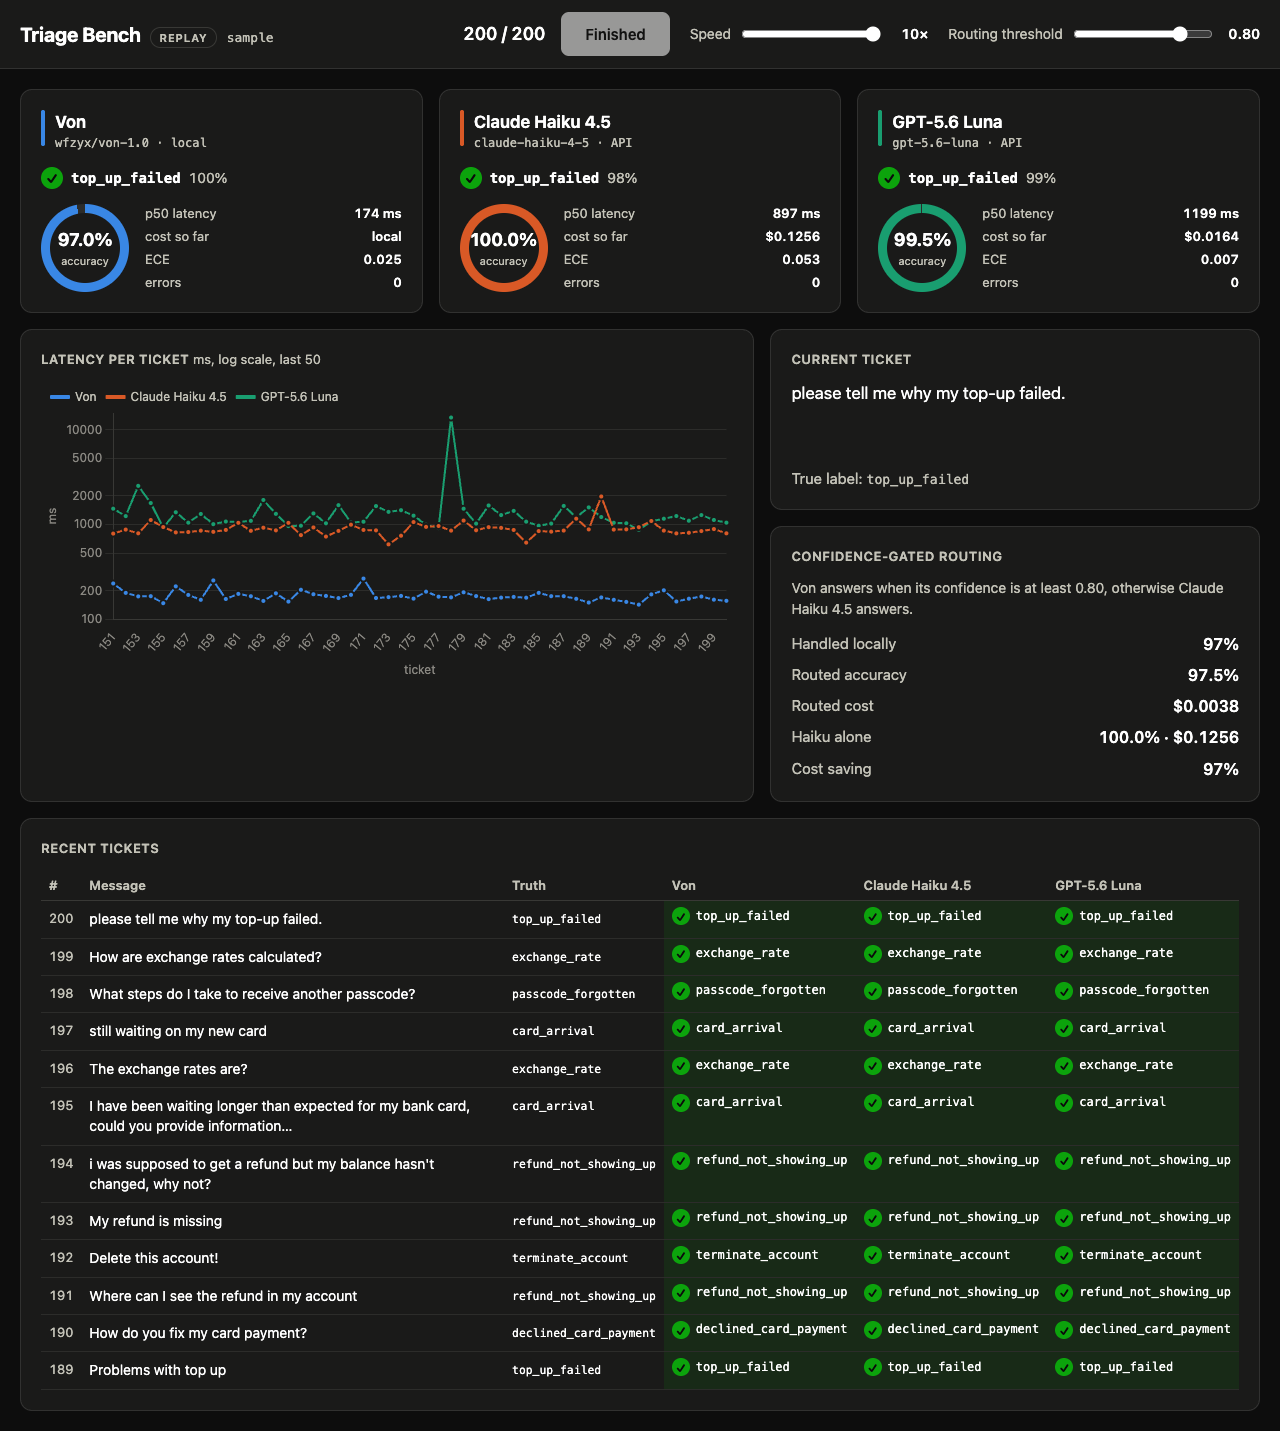
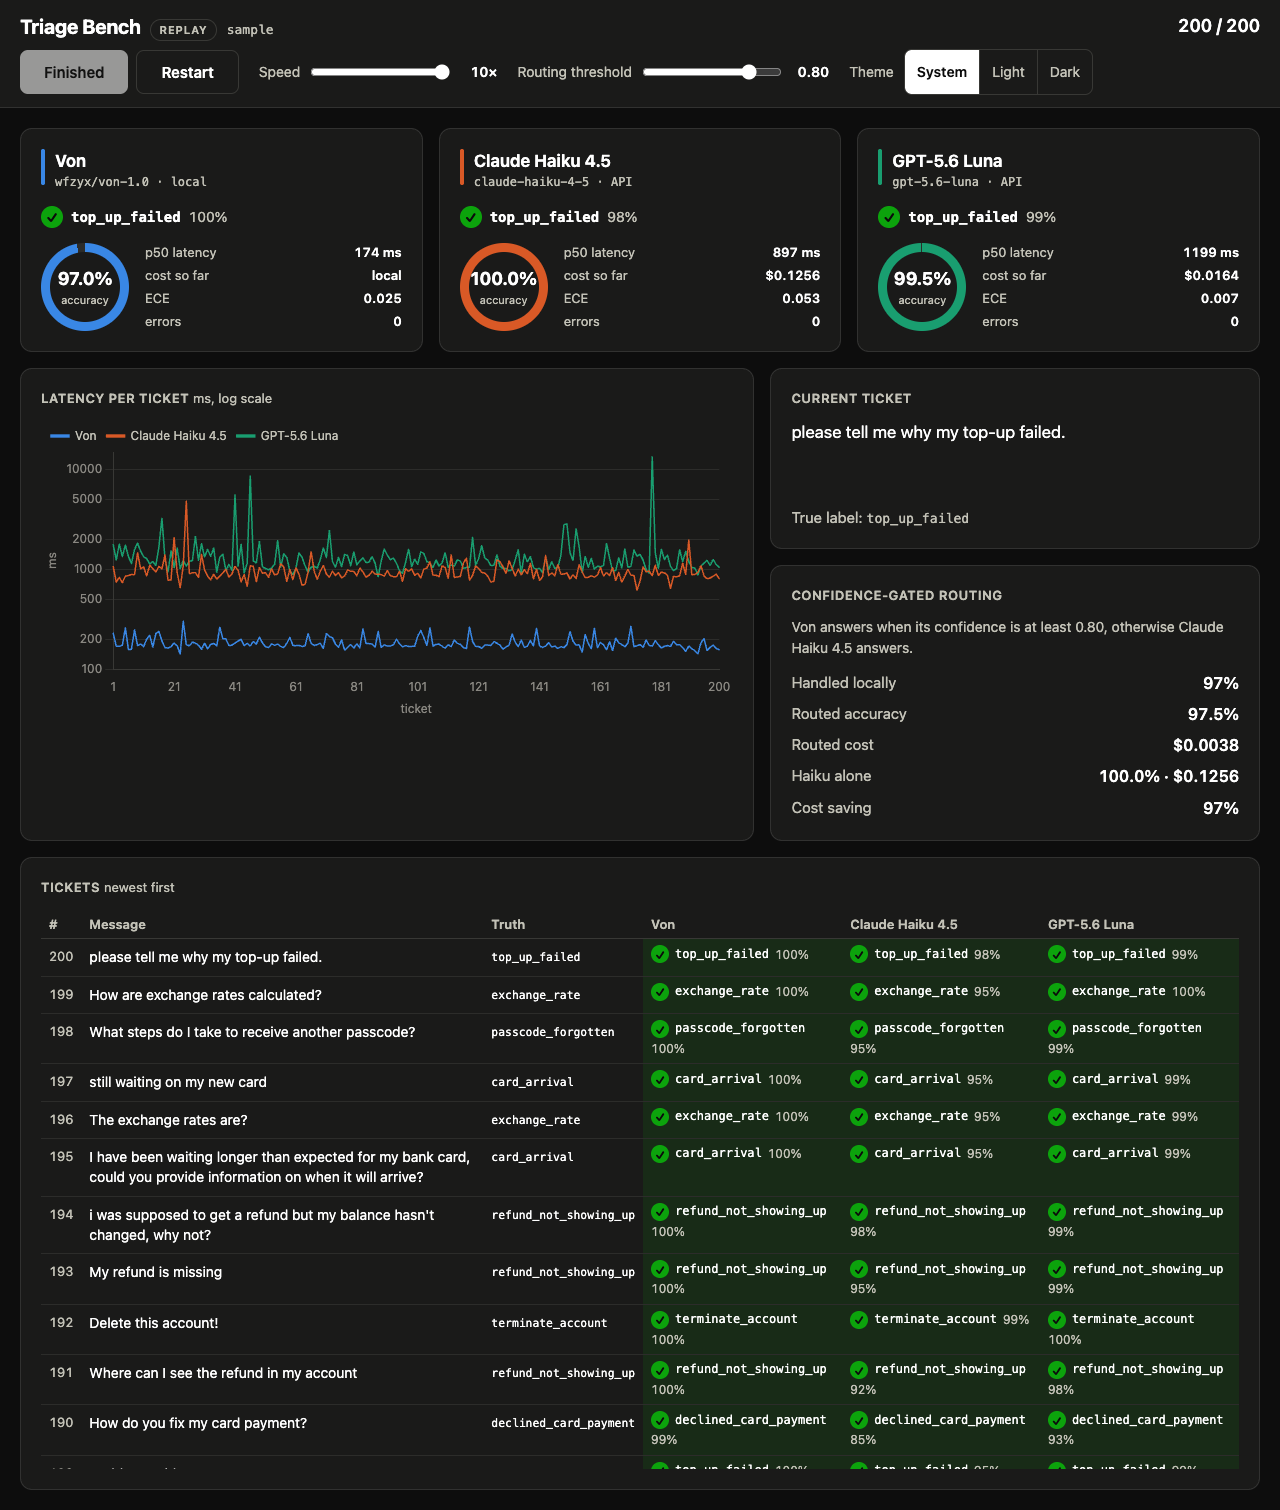
Regenerate the dashboard screenshots
The shots predated the Pause / Restart controls, the full-run latency
chart and the full ticket feed. Same four dark-theme shots: mid-run at
ticket 120, finished, threshold 0.95 and phone at 390 px. The finished
shot's alt text now describes the full chart and the scrollable feed.

diff --git a/README.md b/README.md
@@ -59,7 +59,7 @@ uv run --env-file .env triage-bench live
 
 | Finished run | Threshold at 0.95 | Phone (390 px) |
 |---|---|---|
-| ![Finished run at 200 of 200 with final totals, latency chart and recent-tickets feed](docs/screenshots/dashboard-finished.png) | ![Routing threshold slider at 0.95: 93% handled locally, 98.5% routed accuracy, 93% cost saving](docs/screenshots/dashboard-threshold-095.png) | ![Single-column phone layout at ticket 120: controls, stacked cards, chart and routing panel](docs/screenshots/dashboard-phone.png) |
+| ![Finished run at 200 of 200 with final totals, latency chart of all 200 tickets and the scrollable tickets feed](docs/screenshots/dashboard-finished.png) | ![Routing threshold slider at 0.95: 93% handled locally, 98.5% routed accuracy, 93% cost saving](docs/screenshots/dashboard-threshold-095.png) | ![Single-column phone layout at ticket 120: controls, stacked cards, chart and routing panel](docs/screenshots/dashboard-phone.png) |
 
 ## Fairness
 
